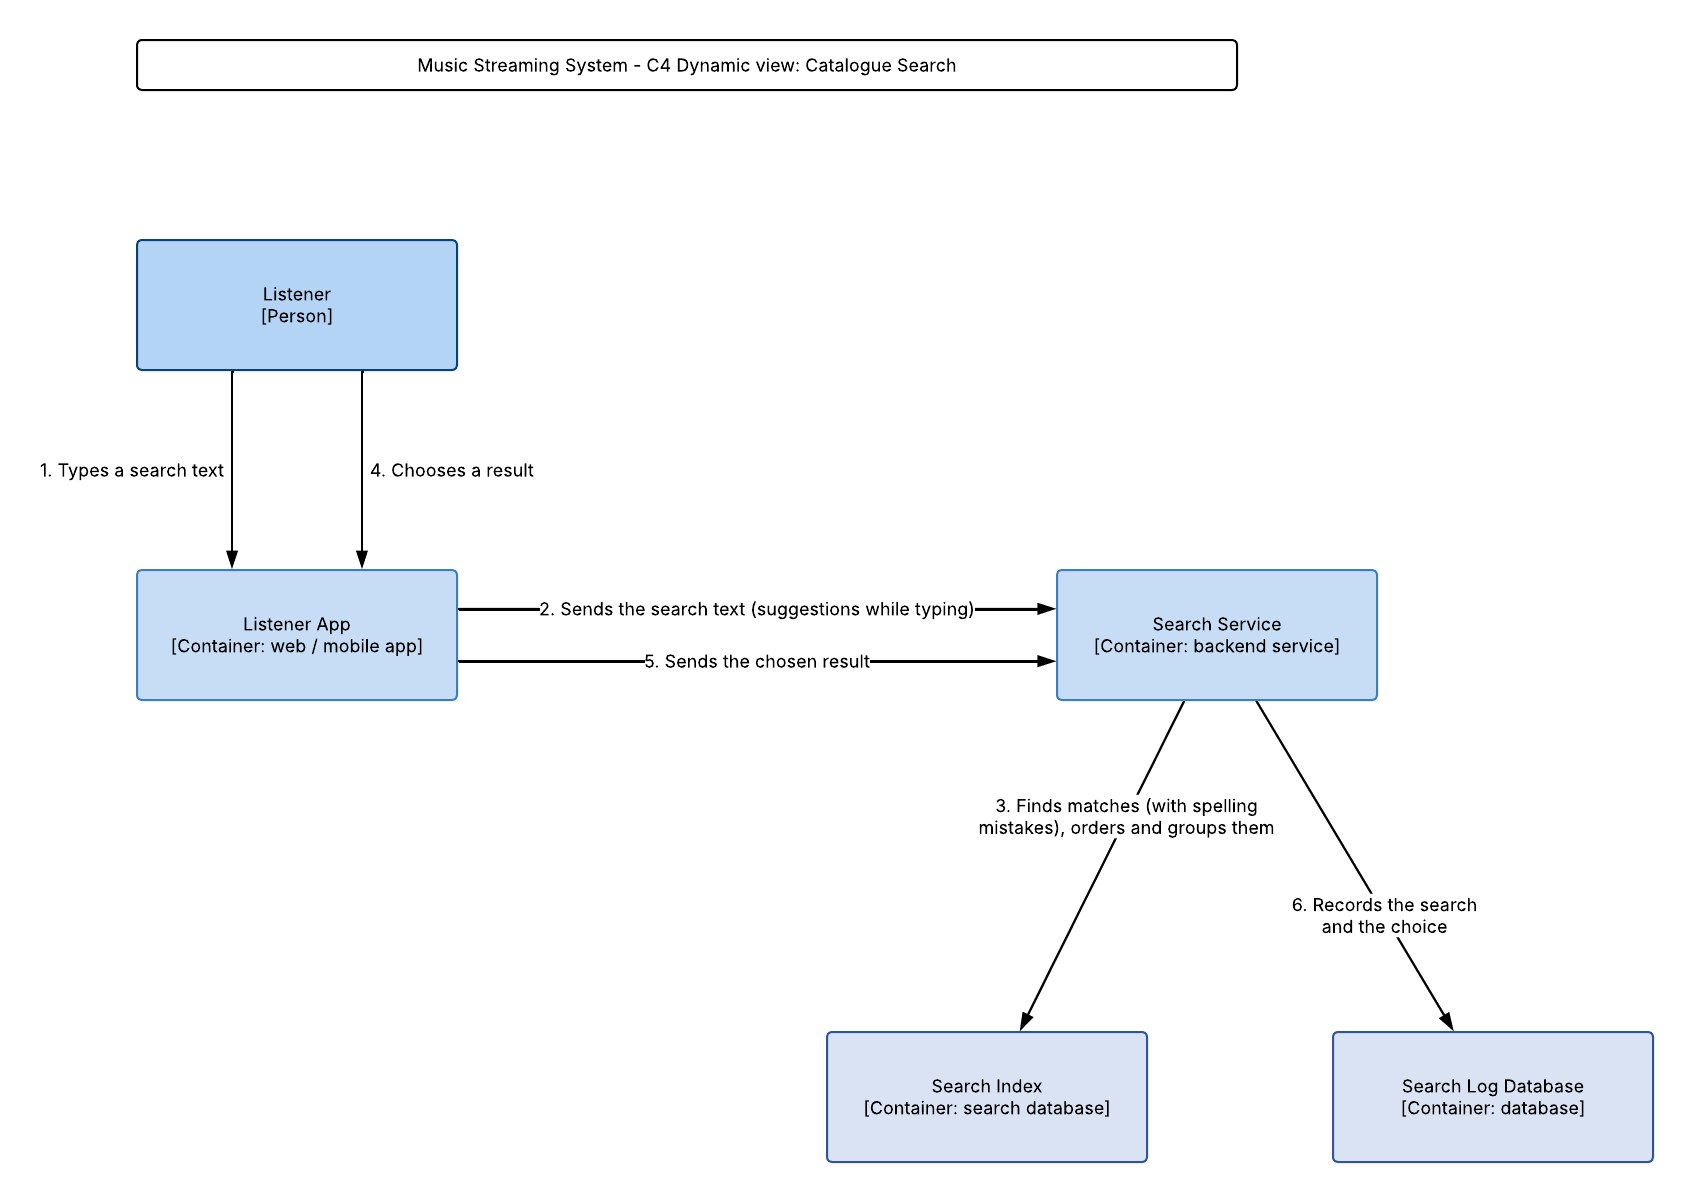
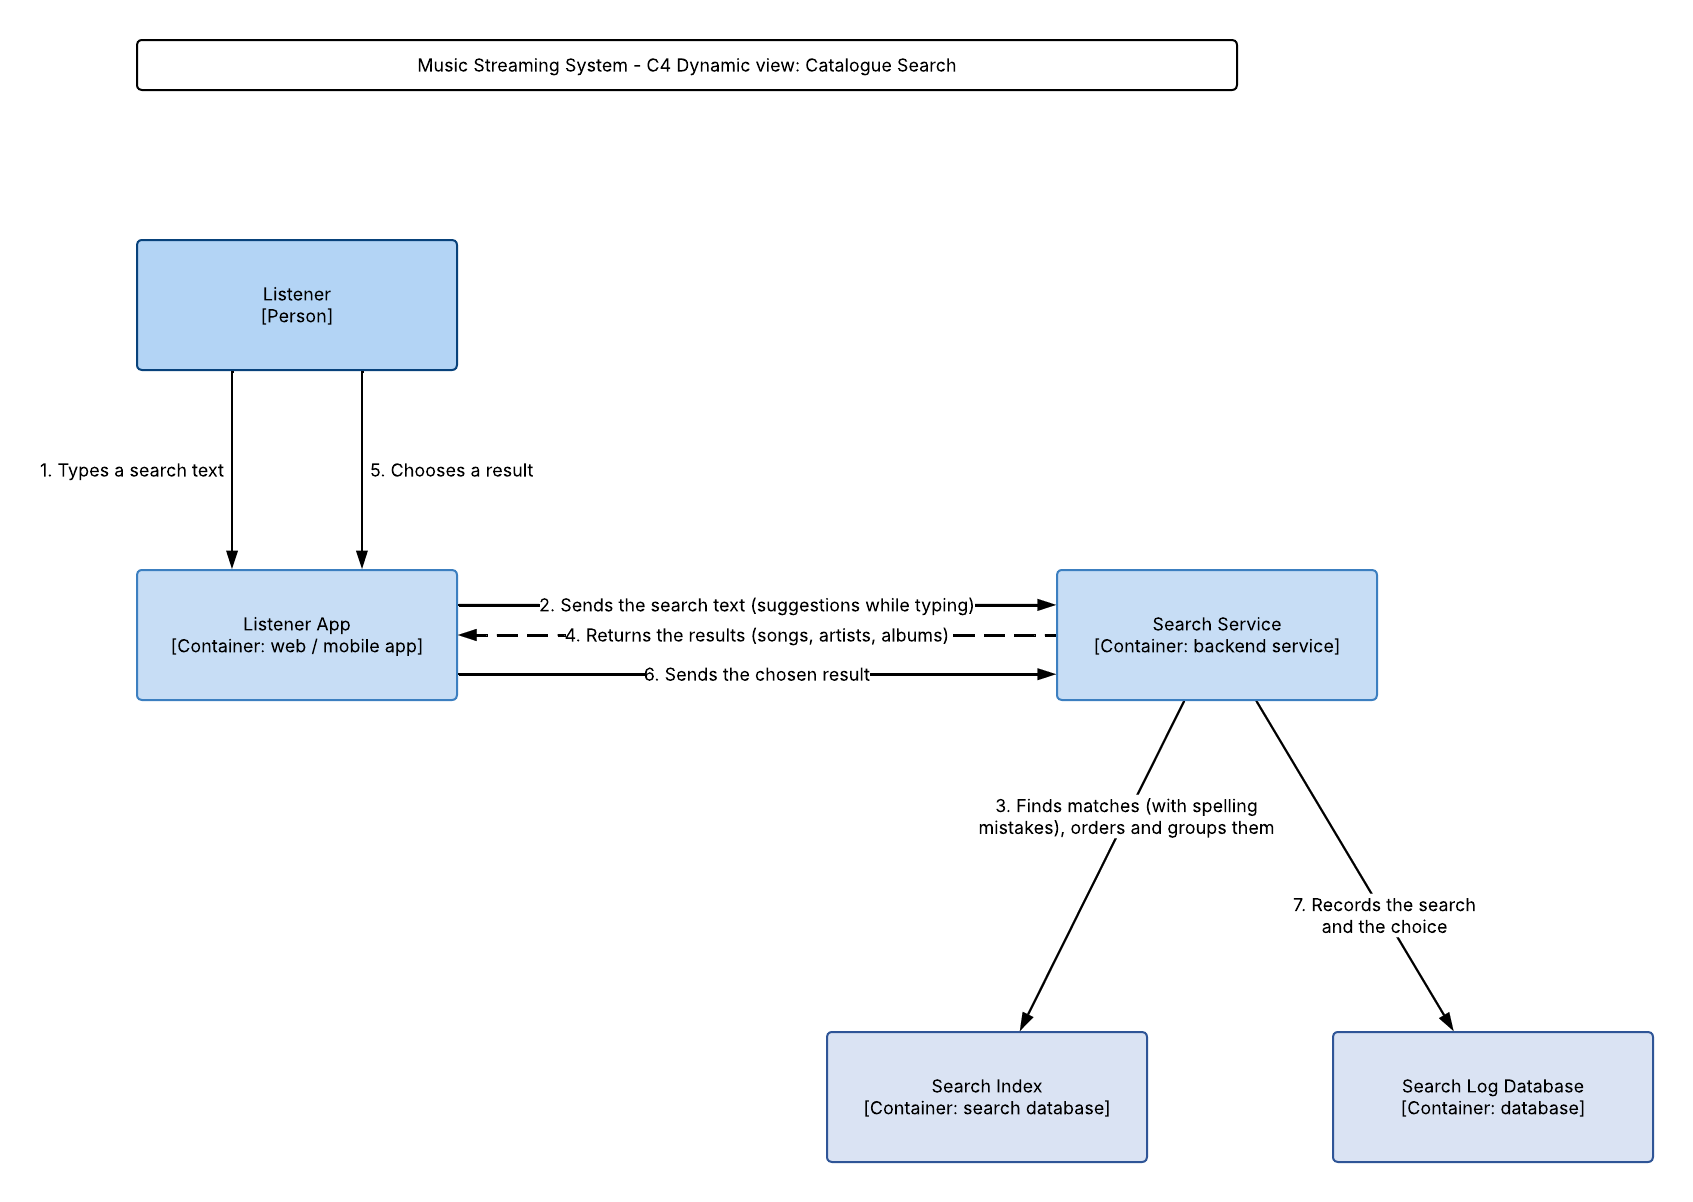
corrections

Changed region(s): [[0.2764, 0.4925, 0.6143, 0.5849], [0.7679, 0.7388, 0.86, 0.7696], [0.215, 0.3694, 0.3071, 0.4002]]

diff --git a/architecture.md b/architecture.md
@@ -175,6 +175,7 @@ Technologies (open source and not tied to one cloud provider):
 ### Dynamic views
 
 One dynamic view per core feature, at container level. The numbers give the order of the steps.
+Dashed arrows are responses to an earlier request.
 
 #### Song Upload
 
@@ -202,9 +203,10 @@ One dynamic view per core feature, at container level. The numbers give the orde
 1. The listener types a search text in the Listener App.
 2. The Listener App sends the search text to the Search Service (suggestions while typing).
 3. The Search Service finds matches in the Search Index (with spelling mistakes), orders and groups them.
-4. The listener chooses a result.
-5. The Listener App sends the chosen result to the Search Service.
-6. The Search Service records the search and the choice in the Search Log Database.
+4. The Search Service returns the results (songs, artists, albums) to the Listener App, which shows them.
+5. The listener chooses a result.
+6. The Listener App sends the chosen result to the Search Service.
+7. The Search Service records the search and the choice in the Search Log Database.
 
 #### Audio Streaming
 
@@ -215,9 +217,10 @@ One dynamic view per core feature, at container level. The numbers give the orde
 3. The Streaming Service checks the login with User Accounts.
 4. It checks in the Catalogue Database that the song is available in the listener's country.
 5. It finds the audio files in the File Storage and creates a temporary, signed link.
-6. The Listener App downloads the audio in small parts from the Audio Delivery Network (CDN).
-7. Only on a cache miss, the CDN gets the parts from the File Storage.
-8. The Listener App reports the play to the Streaming Service.
-9. The Streaming Service saves the play in the Play History Database.
-10. After 30 seconds of listening, it updates the play count in the Catalogue Database.
+6. It returns the signed audio link to the Listener App.
+7. The Listener App downloads the audio in small parts from the Audio Delivery Network (CDN).
+8. Only on a cache miss, the CDN gets the parts from the File Storage.
+9. The Listener App reports the play to the Streaming Service.
+10. The Streaming Service saves the play in the Play History Database.
+11. After 30 seconds of listening, it updates the play count in the Catalogue Database.
 
